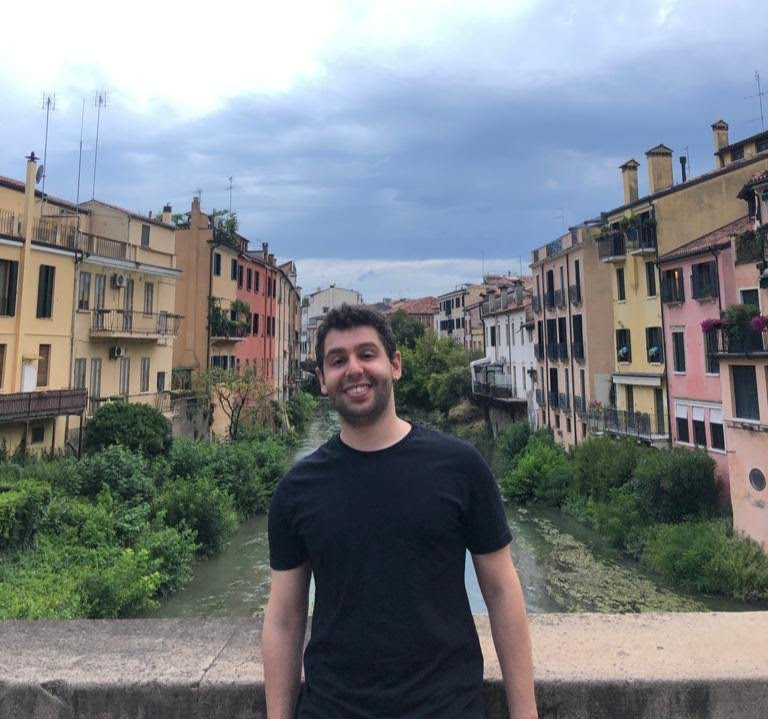
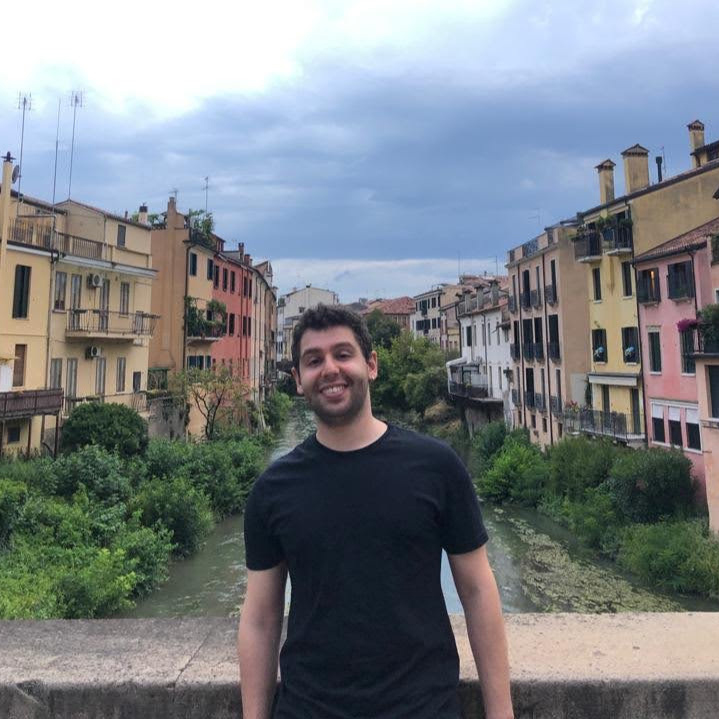
alex update

diff --git a/people.html b/people.html
@@ -103,10 +103,10 @@
              Bianca is a PhD student at the Max Planck School of Cognition. She studies sex differences and the effects of sex hormones on brain organization, with a particular interest in how these factors relate to emotion and affective disorders.  </p>
        </div>
        <div class="column4">
-         <img src="assets/pics/alex.png" alt="Snow" style="width:100%">
+         <img src="assets/pics/alex_new.png" alt="Snow" style="width:100%">
              <h2 align="left">Alex John</h2>
              <h3 align="left">PhD candidate</h3> <p align="left">
-             Alex comes from a biology background and just started her PhD in the lab.  </p>
+              Alex found her interest in the thalamus, its structural connectivity with the cortex, and its role of orchestrating whole-brain activity. Additionally, with her background in biology, she likes to think about how to translate macroscale findings at the systems-level to the biological underpinnings at the microscale.  </p>
        </div>
        <div class="column4">
          <img src="assets/pics/anton.png" alt="Snow" style="width:100%">
@@ -242,7 +242,7 @@
        <footer>
            
              <div class="copyright" align="center">
-               <p>© 2023 Cognitive neurogenetics, Sofie Valk. All rights reserved.</p>
+               <p>© 2024 Cognitive neurogenetics, Sofie Valk. All rights reserved.</p>
               
                <a class="copyright" href="mailto:valk@cbs.mpg.de">contact</a>
              </div>
